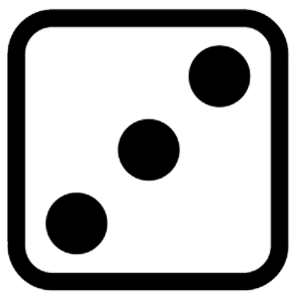
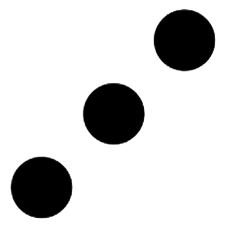
avance

diff --git a/src/Components/Elements/IDado.jsx b/src/Components/Elements/IDado.jsx
@@ -5,9 +5,13 @@ import dado3 from '../img/3.png';
 import dado4 from '../img/4.png';
 import dado5 from '../img/5.png';
 import dado6 from '../img/6.png';
+import React, { useEffect } from 'react';
 
-const dice = document.getElementById('dice');
-
+export const IDado = () => {
+  
+  useEffect(() => {
+    const dice = document.getElementById('dice');
+    const question = document.getElementById('question_123');
     dice.addEventListener('click', rollDice);
     
     function rollDice() {
@@ -18,36 +22,43 @@ const dice = document.getElementById('dice');
     function showResult() {
       const result = document.createElement('div');
       const randomNumber = Math.floor(Math.random() * 6) + 1;
-      /result.textContent = 'Resultado: ' + randomNumber;/
+      question.textContent = ''
+      // result.textContent = 'Resultado: ' + randomNumber;
+      
       result.classList.add('result');
       dice.appendChild(result);
     }
-    
-export const IDado = () => {
+
+    // Remover el event listener cuando el componente se desmonte
+    return () => {
+      dice.removeEventListener('click', rollDice);
+    };
+  }, []); // El segundo argumento es un arreglo vacío para que se ejecute solo una vez cuando se monta el componente
+
   return (
     <>
       <div className="container">
-        <div className="dice" id="dice">
-          <div className="side front">
-            <img src={dado1} alt="" />
+        <div className="dice flex justify-center align-center" id="dice">
+          <div className="side front h-full w-full">
+            <img src={dado1} className='h-full w-full' />
           </div>
           <div className="side back">
-            <img src={dado2} alt="" />
+            <img src={dado2} className='h-full w-full p-5'/>
           </div>
           <div className="side right">
-            <img src={dado3} alt="" />
+            <img src={dado3} className='h-full w-full p-5'/>
           </div>
           <div className="side left">
-            <img src={dado4} alt="" />
+            <img src={dado4} className='h-full w-full p-5'/>
           </div>
           <div className="side top">
-            <img src={dado5} alt="" />
+            <img src={dado5} className='h-full w-full p-5'/>
           </div>
           <div className="side bottom">
-            <img src={dado6} alt="" />
+            <img src={dado6} className='h-full w-full p-5' />
           </div>
         </div>
       </div>
-    </>
-  )
+    </> 
+  )
 }

diff --git a/src/Components/Games/Dado.jsx b/src/Components/Games/Dado.jsx
@@ -7,16 +7,17 @@ export const Dado = () => {
     <section className="w-full h-4/5 d-grid">
       <div className="body w-full h-screen">
       <HdDado />
-      <div className="pregunta h-40 w-full flex justify-center align-top mt-5">
-        <div className="h-40 w-2/5 mx-3 px-6 bg-gray-200 rounded-xl border-4 overflow-hidden shadow-lg grid items-center">
-          <p className="text-gray mt-5 w-full text-[28px]">Pregunta</p>
+      <div className="pregunta h-3/5 w-full flex justify-center align-top mt-5">
+        <div className="h-full w-2/5 mx-3 px-6 bg-gray-200 rounded-xl border-4 overflow-hidden shadow-lg grid items-center">
+          <p className="text-gray mt-5 w-full text-[28px]" id="question_123">Pregunta</p>
         </div>
-        <div className="h-40 w-2/5 mx-3 px-6 bg-gray-200 rounded-xl border-4 overflow-hidden shadow-lg grid items-center">
+        <div className="h-full w-2/5 mx-3 px-6 bg-gray-200 rounded-xl border-4 overflow-hidden shadow-lg grid items-center justify-center">
+          <IDado/>
         </div>
       </div>
 
       <div className="respuesta w-full h-20 mt-10 flex justify-center align-bottom space-x-5">
-        <input type="textbox" placeholder="Escribe aqui tu respuesta maximo 300 caracteres" className="w-3/4 h-full p-8 mx-4 rounded-3xl border-none outline-none text-clip overflow-hidden"/>
+        <input type="text" placeholder="Escribe aqui tu respuesta maximo 300 caracteres" className="w-3/4 h-full p-8 mx-4 rounded-3xl border-none outline-none text-clip overflow-hidden"/>
         <button className="rounded-[80%] w-[90px] h-20 bg-black text-white flex justify-center items-center">
           <AiOutlineSend className="h-3/5 w-3/5"/> 
         </button>

diff --git a/src/App.jsx b/src/App.jsx
@@ -4,6 +4,7 @@ import { CambialoYa } from "./Components/Games/CambialoYa";
 import { Significado } from "./Components/Games/Significado";
 import { Interactivas } from "./Components/Games/Interactivas";
 import { Dado } from "./Components/Games/Dado";
+import {IDado } from "./Components/Elements/IDado"
 
 function App() {
   return (
@@ -12,7 +13,7 @@ function App() {
         <SideBar />
       </div>
       <div className="flex flex-grow overflow-auto bg-gray-100 ">
-        <IDado />
+        <Dado />
       </div>
     </main>
   );

diff --git a/src/Components/css/dado.css b/src/Components/css/dado.css
@@ -1,3 +1,12 @@
+img{
+  background-size: cover;
+  width: 200px;
+  height: 200px;
+}
+.container {
+  perspective: 1000px;
+}
+
 .dice {
   position: relative;
   width: 200px;
